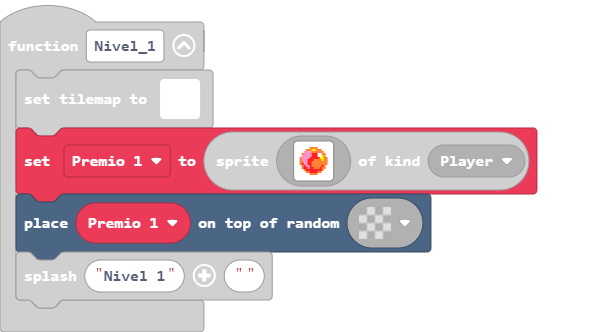
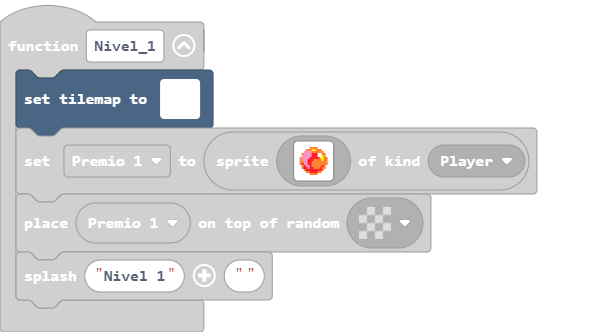
Update main.blocks, main.ts, tilemap.g.jres, tilemap.g.ts

Changed region(s): [[0.0, 0.2108, 0.9168, 0.7831]]

diff --git a/main.ts b/main.ts
@@ -52,23 +52,39 @@ controller.B.onEvent(ControllerButtonEvent.Pressed, function () {
     }
 })
 function Nivel_1 () {
-    tiles.setTilemap(tiles.createTilemap(hex`1000100000000000000000000000000000000000000000000000000000000000000000000000000000000000000000000000000000000000000000000000000000000000000000000000000000000000000000000000000000000000000000000000000000000000000000000000000000000000000000000000000000000000000000000000000000000000000000000000000000000000000000000000000000000000000000000000000000000000000000000000000000000000000000000000000000000000000000000000000000000000000000000000000000000000000000000000000000000000000000000000000000000000000000000000000000000000`, img`
-        . . . . . . . . . . . . . . . . 
-        . . . . . . . . . . . . . . . . 
-        . . . . . . . . . . . . . . . . 
-        . . . . . . . . . . . . . . . . 
-        . . . . . . . . . . . . . . . . 
-        . . . . . . . . . . . . . . . . 
-        . . . . . . . . . . . . . . . . 
-        . . . . . . . . . . . . . . . . 
-        . . . . . . . . . . . . . . . . 
-        . . . . . . . . . . . . . . . . 
-        . . . . . . . . . . . . . . . . 
-        . . . . . . . . . . . . . . . . 
-        . . . . . . . . . . . . . . . . 
-        . . . . . . . . . . . . . . . . 
-        . . . . . . . . . . . . . . . . 
-        . . . . . . . . . . . . . . . . 
+    tiles.setTilemap(tiles.createTilemap(hex`400020000000000000000000000000000000000000000000000000000000000000000000000000000000000000000000000000000000000000000000000000000000000000000000000000000000000000000000000000000000000000000000000000000000000000000000000000000000000000000000000000000000000000000000000000000000000000000000000000000000000000000000000000000000000000000000000000000000000000000000000000000000000000000000000000000000000000000000000000000000000000000000000000000000000000000000000000000000000000000000000000000000000000000000000000000000000000000000000000000000000000000000000000000000000000000000000000000000000000000000000000000000000000000000000000000000000000000000000000000000000000000000000000000000000000000000000000000000000000000000000000000000000000000000000000000000000000000000000000000000000000000000000000000000000000000000000000000000000000000000000000000000000000000000000000000000000000000000000000000000000000000000000000000000000000000000000000000000000000000000000000000000000000000000000000000000000000000000000000000000000000000000000000000000000000000000000000000000000000000000000000000000000000000000000000000000000000000000000000000000000000000000000000000000000000000000000000000000000000000000000000000000000000000000000000000000000000000000000000000000000000000000000000000000000000000000000000000000000000000000000000000000000000000000000000000000000000000000000000000000000000000000000000000000000000000000000000000000000000000000000000000000000000000000000000000000000000000000000000000000000000000000000000000000000000000000000000000000000000000000000000000000000000000000000000000000000000000000000000000000000000000000000000000000000000000000000000000000000000000000000000000000000000000000000000000000000000000000000000000000000000000000000000000000000000000000000000000000000000000000000000000000000000000000000000000000000000000000000000000000000000000000000000000000000000000000000000000000000000000000000000000000000000000000000000000000000000000000000000000000000000000000000000000000000000000000000000000000000000000000000000000000000000000000000000000000000000000000000000000000000000000000000000000000000000000000000000000000000000000000000000000000000000000000000000000000000000000000000000000000000000000000000000000000000000000000000000000000000000000000000000000000000000000000000000000000000000000000000000000000000000000000000000000000000000000000000000000000000000000000000000000000000000000000000000000000000000000000000000000000000000000000000000000000000000000000000000000000000000000000000000000000000000000000000000000000000000000000000000000000000000000000000000000000000000000000000000000000000000000000000000000000000000000000000000000000000000000000000000000000000000000000000000000000000000000000000000000000000000000000000000000000000000000000000000000000000000000000000000000000000000000000000000000000000000000000000000000000000000000000000000000000000000000000000000000000000000000000000000000000000000000000000000000000000000000000000000000000000000000000000000000000000000000000000000000000000000000000000000000000000000000000000000000000000000000000000000000000000000000000000000000000000000000000000000000000000000000000000000000000000000000000000000000000000000000000000000000000000000000000000000000000000000000000000000000000000000000000000000000000000000000000000000000000000000000000000000000000000000000000000000000000000000000000000000000000000000000000000000000000000000000000000000000000000000000000000000000000000000000000000000000000000000000000000000000000000000000000000000000000000000000000000000000000000000000000000000000000000000000000000000000000000000000000000000000000000000000000000000000000000000000000000000000000000000000000000000000000000000000000000000000000000000000000000000000000000000000000000000000000000000000000000000000000000000000000000000000000000000000000000000000000000000000000000000000000000000000000000000000000000000000000000000000000000000000000000000000000000000000000000000000000000000000000000000000000000000000000000000000000000000000000000000000000000000000000000000000000000000000000000000000000000000000000`, img`
+        . . . . . . . . . . . . . . . . . . . . . . . . . . . . . . . . . . . . . . . . . . . . . . . . . . . . . . . . . . . . . . . . 
+        . . . . . . . . . . . . . . . . . . . . . . . . . . . . . . . . . . . . . . . . . . . . . . . . . . . . . . . . . . . . . . . . 
+        . . . . . . . . . . . . . . . . . . . . . . . . . . . . . . . . . . . . . . . . . . . . . . . . . . . . . . . . . . . . . . . . 
+        . . . . . . . . . . . . . . . . . . . . . . . . . . . . . . . . . . . . . . . . . . . . . . . . . . . . . . . . . . . . . . . . 
+        . . . . . . . . . . . . . . . . . . . . . . . . . . . . . . . . . . . . . . . . . . . . . . . . . . . . . . . . . . . . . . . . 
+        . . . . . . . . . . . . . . . . . . . . . . . . . . . . . . . . . . . . . . . . . . . . . . . . . . . . . . . . . . . . . . . . 
+        . . . . . . . . . . . . . . . . . . . . . . . . . . . . . . . . . . . . . . . . . . . . . . . . . . . . . . . . . . . . . . . . 
+        . . . . . . . . . . . . . . . . . . . . . . . . . . . . . . . . . . . . . . . . . . . . . . . . . . . . . . . . . . . . . . . . 
+        . . . . . . . . . . . . . . . . . . . . . . . . . . . . . . . . . . . . . . . . . . . . . . . . . . . . . . . . . . . . . . . . 
+        . . . . . . . . . . . . . . . . . . . . . . . . . . . . . . . . . . . . . . . . . . . . . . . . . . . . . . . . . . . . . . . . 
+        . . . . . . . . . . . . . . . . . . . . . . . . . . . . . . . . . . . . . . . . . . . . . . . . . . . . . . . . . . . . . . . . 
+        . . . . . . . . . . . . . . . . . . . . . . . . . . . . . . . . . . . . . . . . . . . . . . . . . . . . . . . . . . . . . . . . 
+        . . . . . . . . . . . . . . . . . . . . . . . . . . . . . . . . . . . . . . . . . . . . . . . . . . . . . . . . . . . . . . . . 
+        . . . . . . . . . . . . . . . . . . . . . . . . . . . . . . . . . . . . . . . . . . . . . . . . . . . . . . . . . . . . . . . . 
+        . . . . . . . . . . . . . . . . . . . . . . . . . . . . . . . . . . . . . . . . . . . . . . . . . . . . . . . . . . . . . . . . 
+        . . . . . . . . . . . . . . . . . . . . . . . . . . . . . . . . . . . . . . . . . . . . . . . . . . . . . . . . . . . . . . . . 
+        . . . . . . . . . . . . . . . . . . . . . . . . . . . . . . . . . . . . . . . . . . . . . . . . . . . . . . . . . . . . . . . . 
+        . . . . . . . . . . . . . . . . . . . . . . . . . . . . . . . . . . . . . . . . . . . . . . . . . . . . . . . . . . . . . . . . 
+        . . . . . . . . . . . . . . . . . . . . . . . . . . . . . . . . . . . . . . . . . . . . . . . . . . . . . . . . . . . . . . . . 
+        . . . . . . . . . . . . . . . . . . . . . . . . . . . . . . . . . . . . . . . . . . . . . . . . . . . . . . . . . . . . . . . . 
+        . . . . . . . . . . . . . . . . . . . . . . . . . . . . . . . . . . . . . . . . . . . . . . . . . . . . . . . . . . . . . . . . 
+        . . . . . . . . . . . . . . . . . . . . . . . . . . . . . . . . . . . . . . . . . . . . . . . . . . . . . . . . . . . . . . . . 
+        . . . . . . . . . . . . . . . . . . . . . . . . . . . . . . . . . . . . . . . . . . . . . . . . . . . . . . . . . . . . . . . . 
+        . . . . . . . . . . . . . . . . . . . . . . . . . . . . . . . . . . . . . . . . . . . . . . . . . . . . . . . . . . . . . . . . 
+        . . . . . . . . . . . . . . . . . . . . . . . . . . . . . . . . . . . . . . . . . . . . . . . . . . . . . . . . . . . . . . . . 
+        . . . . . . . . . . . . . . . . . . . . . . . . . . . . . . . . . . . . . . . . . . . . . . . . . . . . . . . . . . . . . . . . 
+        . . . . . . . . . . . . . . . . . . . . . . . . . . . . . . . . . . . . . . . . . . . . . . . . . . . . . . . . . . . . . . . . 
+        . . . . . . . . . . . . . . . . . . . . . . . . . . . . . . . . . . . . . . . . . . . . . . . . . . . . . . . . . . . . . . . . 
+        . . . . . . . . . . . . . . . . . . . . . . . . . . . . . . . . . . . . . . . . . . . . . . . . . . . . . . . . . . . . . . . . 
+        . . . . . . . . . . . . . . . . . . . . . . . . . . . . . . . . . . . . . . . . . . . . . . . . . . . . . . . . . . . . . . . . 
+        . . . . . . . . . . . . . . . . . . . . . . . . . . . . . . . . . . . . . . . . . . . . . . . . . . . . . . . . . . . . . . . . 
+        . . . . . . . . . . . . . . . . . . . . . . . . . . . . . . . . . . . . . . . . . . . . . . . . . . . . . . . . . . . . . . . . 
         `, [myTiles.transparency16], TileScale.Sixteen))
     Premio_1 = sprites.create(img`
         . . . . . . . . . . . . . . . . 

diff --git a/tilemap.g.ts b/tilemap.g.ts
@@ -18,14 +18,6 @@ namespace myTiles {
     export const tile7 = image.ofBuffer(hex``);
     //% fixedInstance jres blockIdentity=images._tile
     export const tile8 = image.ofBuffer(hex``);
-    //% fixedInstance jres blockIdentity=images._tile
-    export const tile9 = image.ofBuffer(hex``);
-    //% fixedInstance jres blockIdentity=images._tile
-    export const tile10 = image.ofBuffer(hex``);
-    //% fixedInstance jres blockIdentity=images._tile
-    export const tile11 = image.ofBuffer(hex``);
-    //% fixedInstance jres blockIdentity=images._tile
-    export const tile12 = image.ofBuffer(hex``);
 
 }
 // Auto-generated code. Do not edit.
